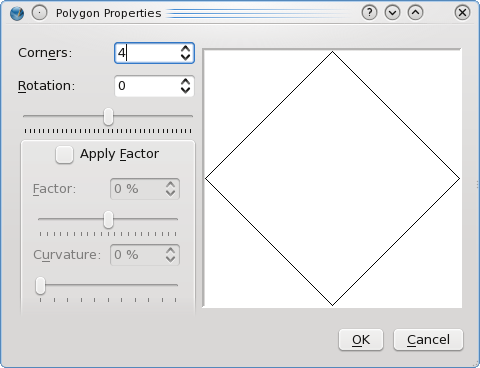
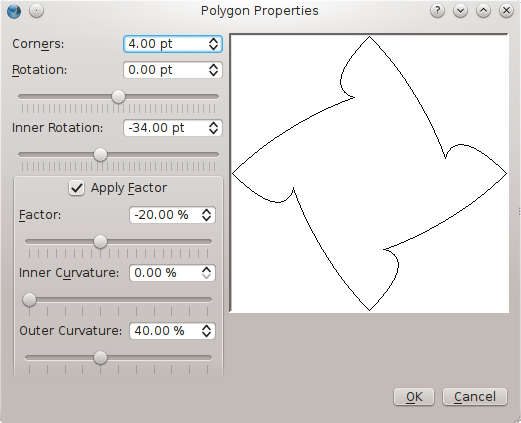
150 updates to WwShapes
git-svn-id: file:///svn/Scribus/trunk@17660 11d20701-8431-0410-a711-e3c959e3b870

diff --git a/Scribus/doc/en/WwShapes.html b/Scribus/doc/en/WwShapes.html
@@ -27,14 +27,14 @@ In <a href="WwFrames.html">Working with Frames</a> there is information on manip
 <h3>Polygons</h3>
 <table cellpadding=5><tr>
 <td>Polygons in Scribus are regular polygons, which when drawn with equal width and height dimensions, will have equal sides and angles. Default is for 4 sides (corners), although you may have anything from 3 to 999 sides. The Polygons icon will always show a pentagon, but by selecting Properties from the drop-down you get the dialog to the right. As you see, your choices here are restricted to the geometry of the polygon. You can set defaults for line and fill colors and shading, and line thickness in <i>File > Preferences > Tools > Shape (icon)</i> or in <i>File > Document Settings > Tools > Shape (icon)</i>. Your choices in <i>File > Preferences > Tools > Polygon (icon)</i> and in <i>File > Document Settings > Tools > Polygon (icon)</i> will be limited to what you see here in the <i>Polygon Properties</i> dialog.
-<p>Number of <b>Corners</b> and <b>Rotation</b> need no explanation, but note that the rotation can be set in the spinbox or with the slider. <b>Apply Factor</b> is not so intuitive, but the small preview will quickly show you that a factor of less than 0% will bend the sides inward at the midpoint, and greater than 0% bend them outward. <b>Curvature</b> transforms the angulated bend into a curve instead.
+<p>In 1.5+ we have new settings for <i>Polygon Properties</i>. Number of <b>Corners</b> and <b>Rotation</b> need no explanation, but note that the rotation can be set in the spinbox or with the slider.</p>
+<p><b>Apply Factor</b> allows the usage of the remaining settings. In this example, setting the <b>Factor</b> less than 0% causes the sides to bend inward in the middle. The <b>Inner Rotation</b> setting has shifted the bending points clockwise, and finally, <b>Outer Curvature</b> causes the line segments to bend outward.</p>
 </td>
 <td><img src="images/polygons.png" ALT="Polygon Properties" ALIGN=right></td></tr>
 </table>
-<p>The best way to learn what the various settings do is simply to play with them then see the results. If you draw your polygon with unequal width and height, you will see various kinds of distortions compared to the small preview window. Below are some variations on a 4 and a 7-sided polygon which you might try to duplicate. 
+<p>The best way to learn what the various settings do is simply to play with them then see the results. If you draw your polygon with unequal width and height, you will see various kinds of distortions compared to the small preview window.</p>
 <p>Just as with shapes, if you activate the polygons icon, then click the canvas, you will get the <b>Enter Object Size</b> dialog.
-<table><tr><td><img src="images/polygons1.png" ALT="Polygon examples" ALIGN=left></td></tr>
-</table>
+
 <h3>Context Menu</h3>
 <table cellpadding=5><tr><td><img src="images/context_shape.png" ALT="Context Menu Shapes" ALIGN=right></td>
 <td>The context menu with shapes and polygons has fewer choices than with text or image frames.
